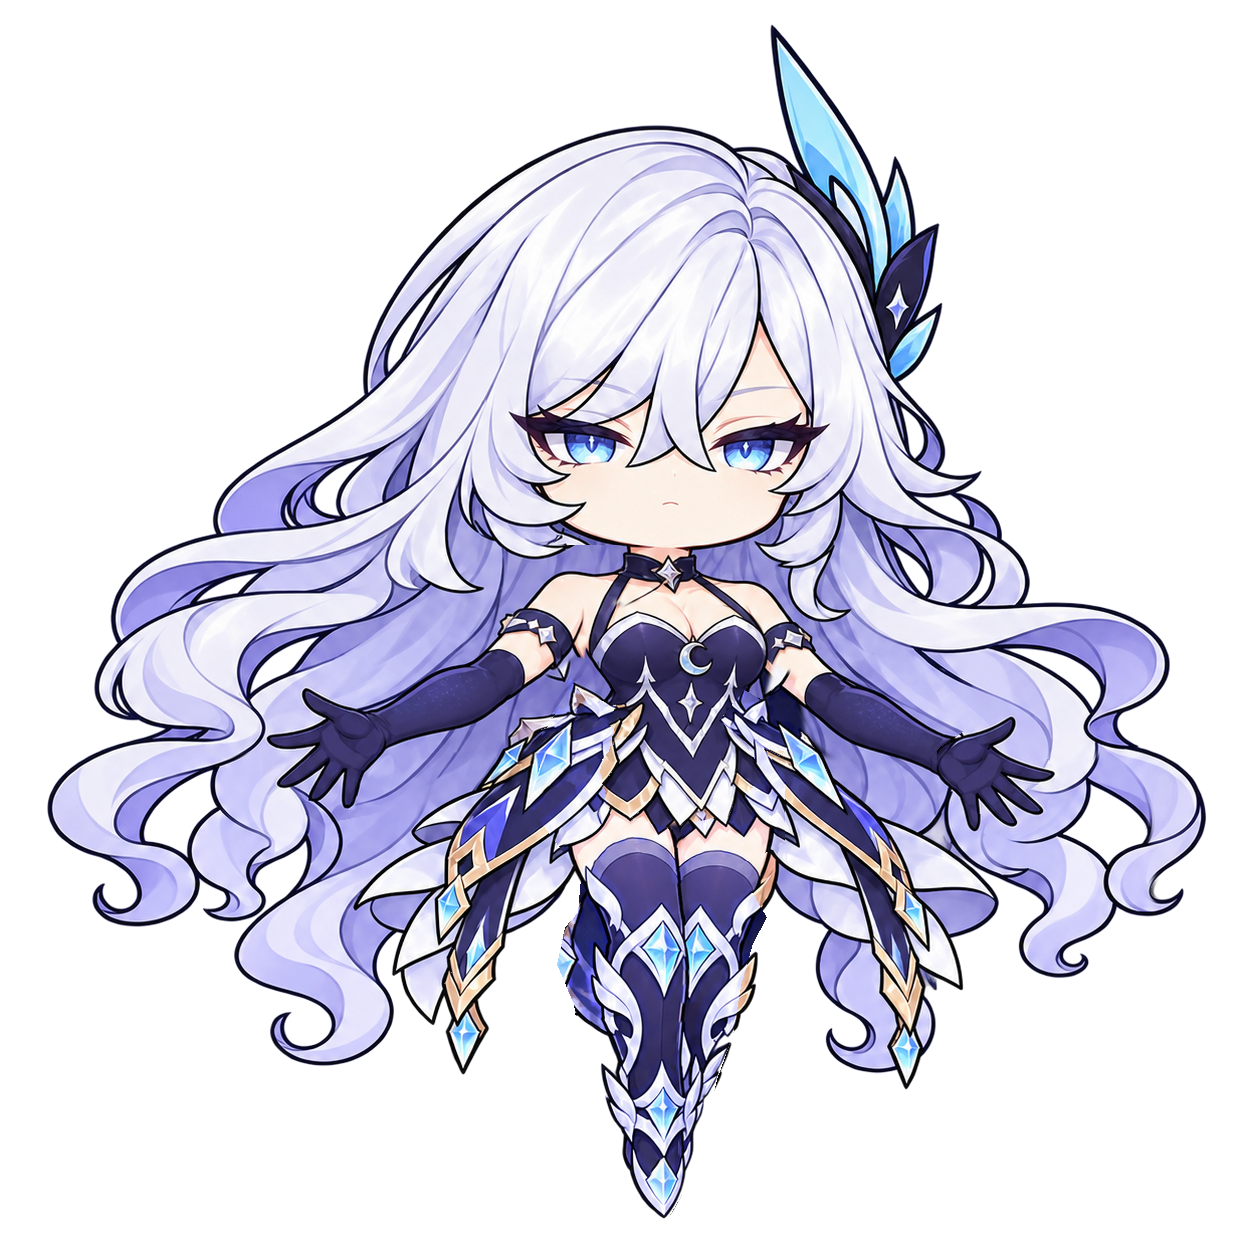
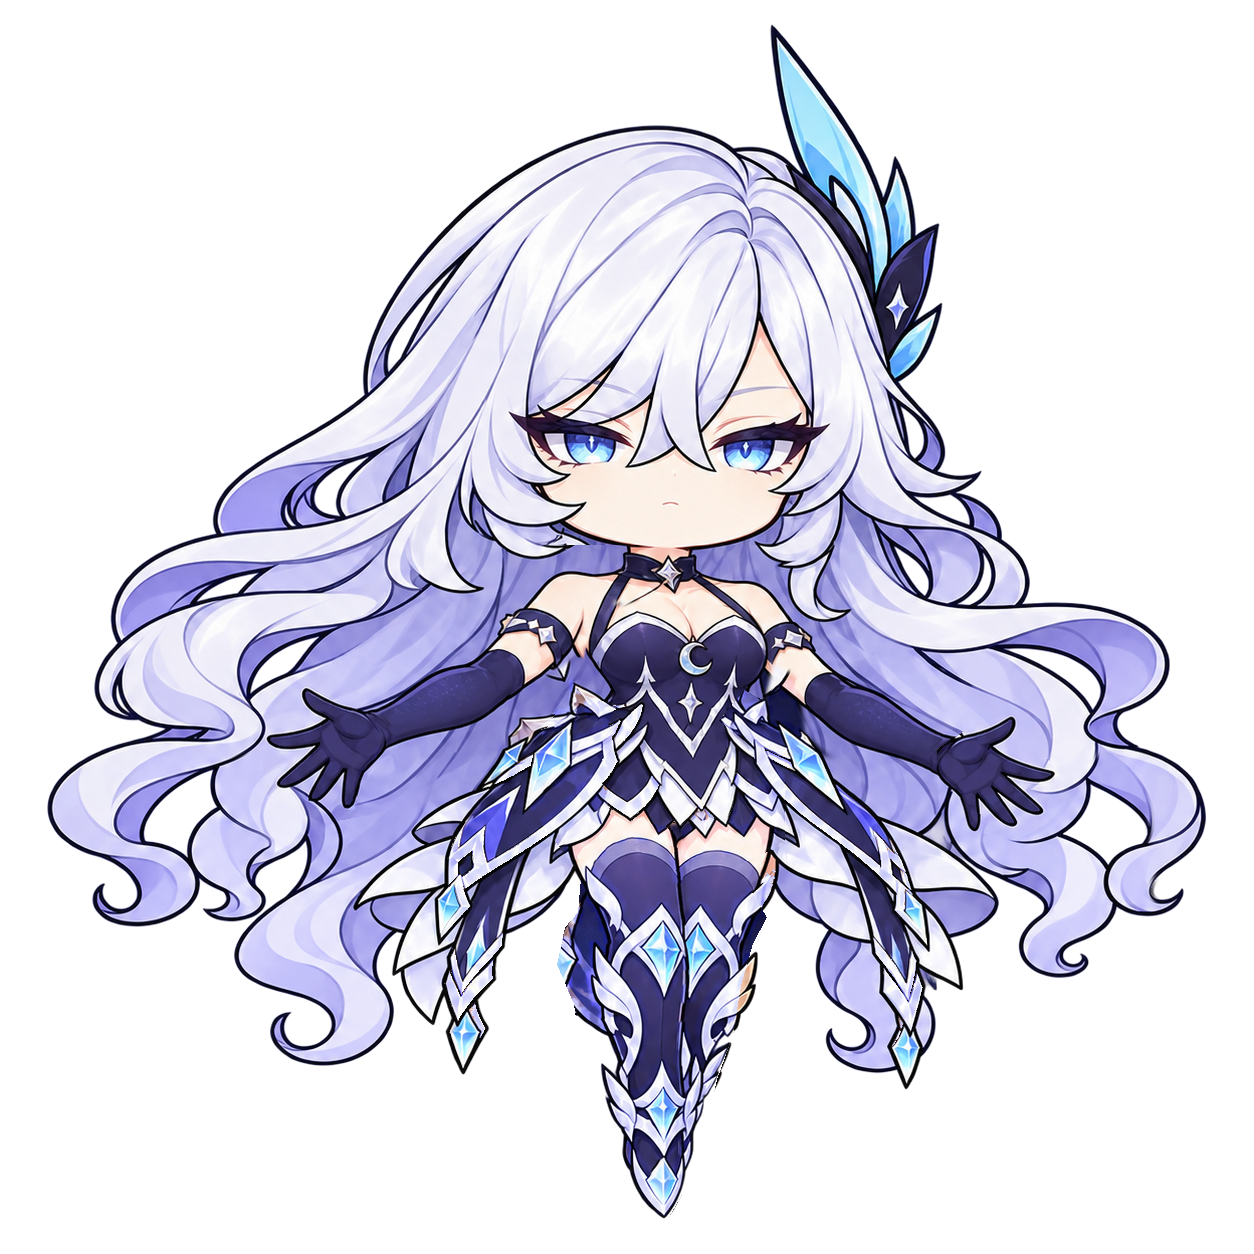
art: correct remaining gold tasset trim in armor stages 2 through 5

diff --git a/assets/v2_1/GENERATION.md b/assets/v2_1/GENERATION.md
@@ -89,3 +89,10 @@
 - 游戏待机剑尖向下，转剑以短小剑身 / 指尖变化表现，不做完整一周的大幅旋转。两者仍为右手持同一类苍耀单手剑；铠甲图保留 Q 版改编风格。
 - 交付是关键阶段图，**不是已验证的最终 60–120fps 动画**。星环、扫描光、粒子、上浮、镜头及插值仍由 Claude 接入。没有修改共享代码、旧版角色资产或 Claude 的规格文件；本地提交，不合并、不推送。
 - 可恢复的原始生成图、蒙版、校验和工作脚本：`D:\Documents\ChatGPT\petoken-takeover-backups\v2.1-art-batch2`。
+
+## 第 2–5 张残金补正（2026-10-08）
+
+- 用户总览指出 `xform_armor_2..5.png` 的腰甲仍有金色。原因是先前改色只复用了与最终 armor7 相同的金属像素，而移除部件时局部重绘出的不同腰甲像素被漏掉。
+- 用内置 imagegen，以 armor2 为局部改色目标、armor6 为银白配色参考，生成冷银白 / 淡紫冰蓝边饰；沿用授权的 Pillow，只合成原图金属色选区的 RGB，并与原着甲过渡范围相交。共享腰甲同位置使用同一改色结果；不采用生成图的整个人物、姿势或透明轮廓。
+- **4/4** alpha 通道与改前逐像素一致；选区外 RGBA 改变为 **0**。另外 **38 张精灵图 SHA256 不变**。42 张尺寸 / 透明边框、20+10 项既有局部差分及42张 alpha>8 连通检查继续通过。
+- 总览已经更新；具体原始提示词、原图及结果 SHA256、选区范围与变化数量写入 `GENERATION.json` 的 `remaining_gold_followup` 和各阶段的 `remaining_gold_correction`。原始工具输出与修正脚本在仓库外恢复目录 `v2.1-art-batch2/gold-trim-followup`。

diff --git a/HANDOFF.md b/HANDOFF.md
@@ -145,3 +145,5 @@
 - Changed paths: assets/v2_1/ (29 new PNGs,9 corrected PNGs,GENERATION.md/json), docs/V2_1_ART_PREVIEW.png, this handoff. Metadata retains original firstbatch gold/spear history separately; current stages/validation are authoritative. Raw reference art is identified as official announcement reproduced by Sportskeeda and game-asset mirror; not misrepresented as direct official download.
 - Next: maintainer visually accepts all42 and corrected weapon/palette; Claude integrates frame selection, y1218 character anchor, star-ring/light/particle effects and60-120fps interpolation. Current artwork contains no baked halo/ground/text. Runtime animation is not validated by static sprite QA.
 - Durable recovery/art provenance: D:\Documents\ChatGPT\petoken-takeover-backups\v2.1-art-batch2 (generation.json, palette.json, masks/, validation.json, raw references/snapshots and scripts). Firstbatch raw/masks remain in sibling v2.1-art. Local art commit only; wait for human feedback.
+
+- COMPLETE / WAITING_FOR_HUMAN_ART_QA: user-identified remaining gold tasset trim in xform_armor_2..5 corrected with imagegen silver edit and authorized RGB-only exact composition. Four original alpha channels exact;38 other sprites hash-unchanged;42 asset and30 existing composition checks PASS. Updated GENERATION.md/json and preview. Earlier master-matching recolor omitted distinct partial-stage trim; current per-stage gold masks resolve it. Local followup commit only, no merge/push.
